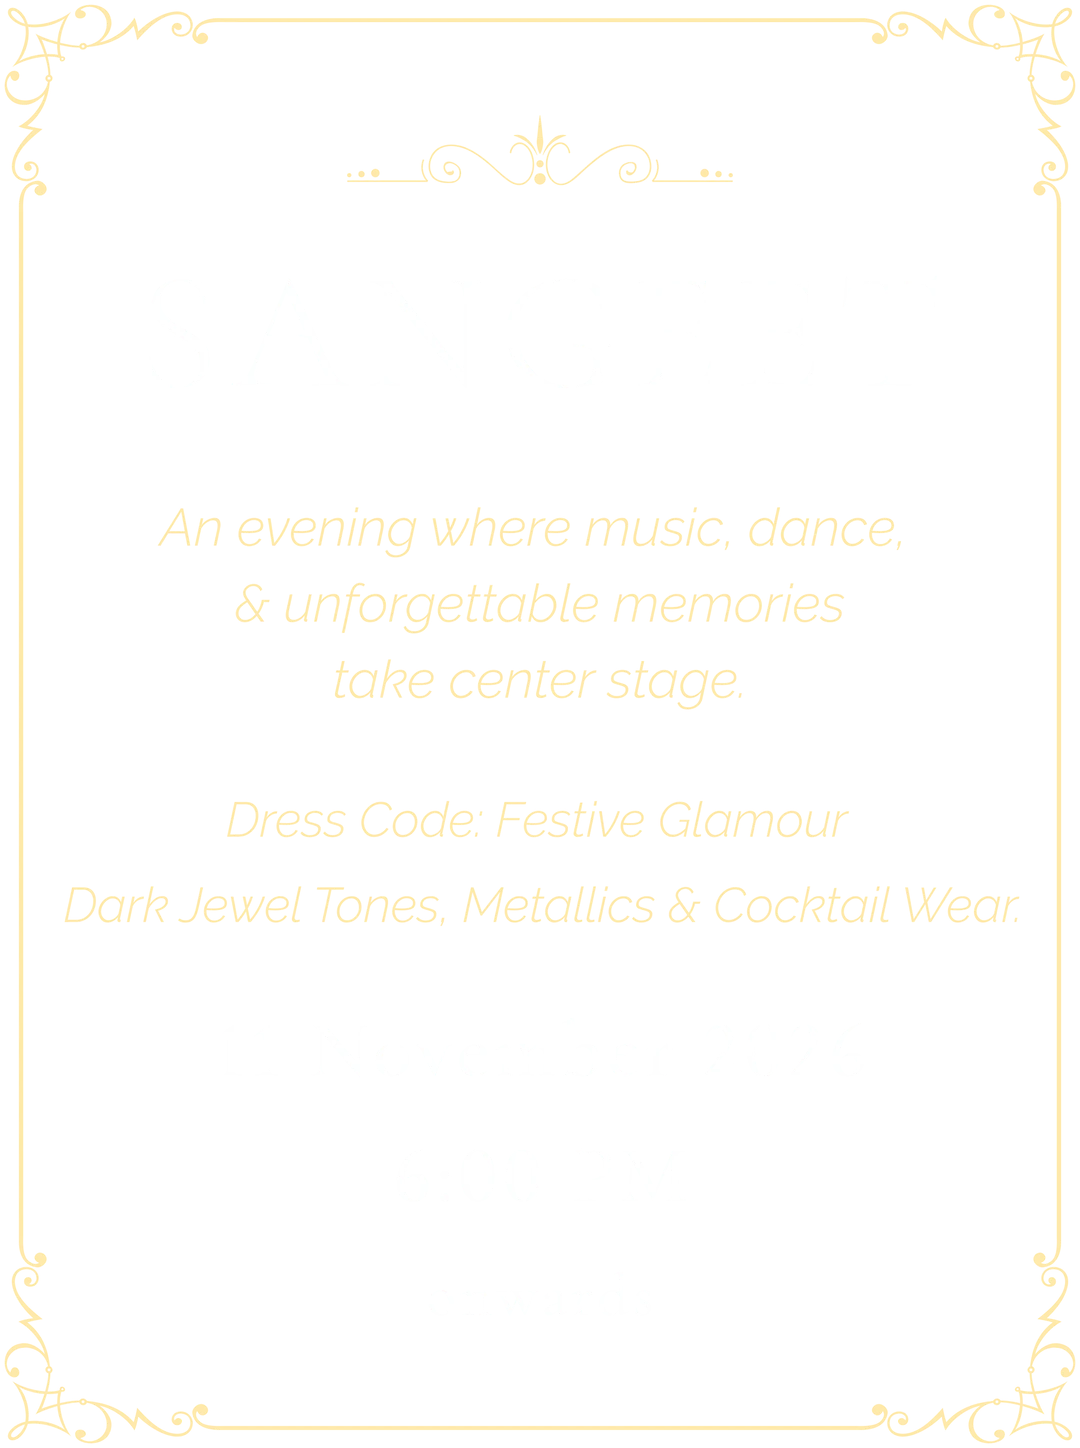
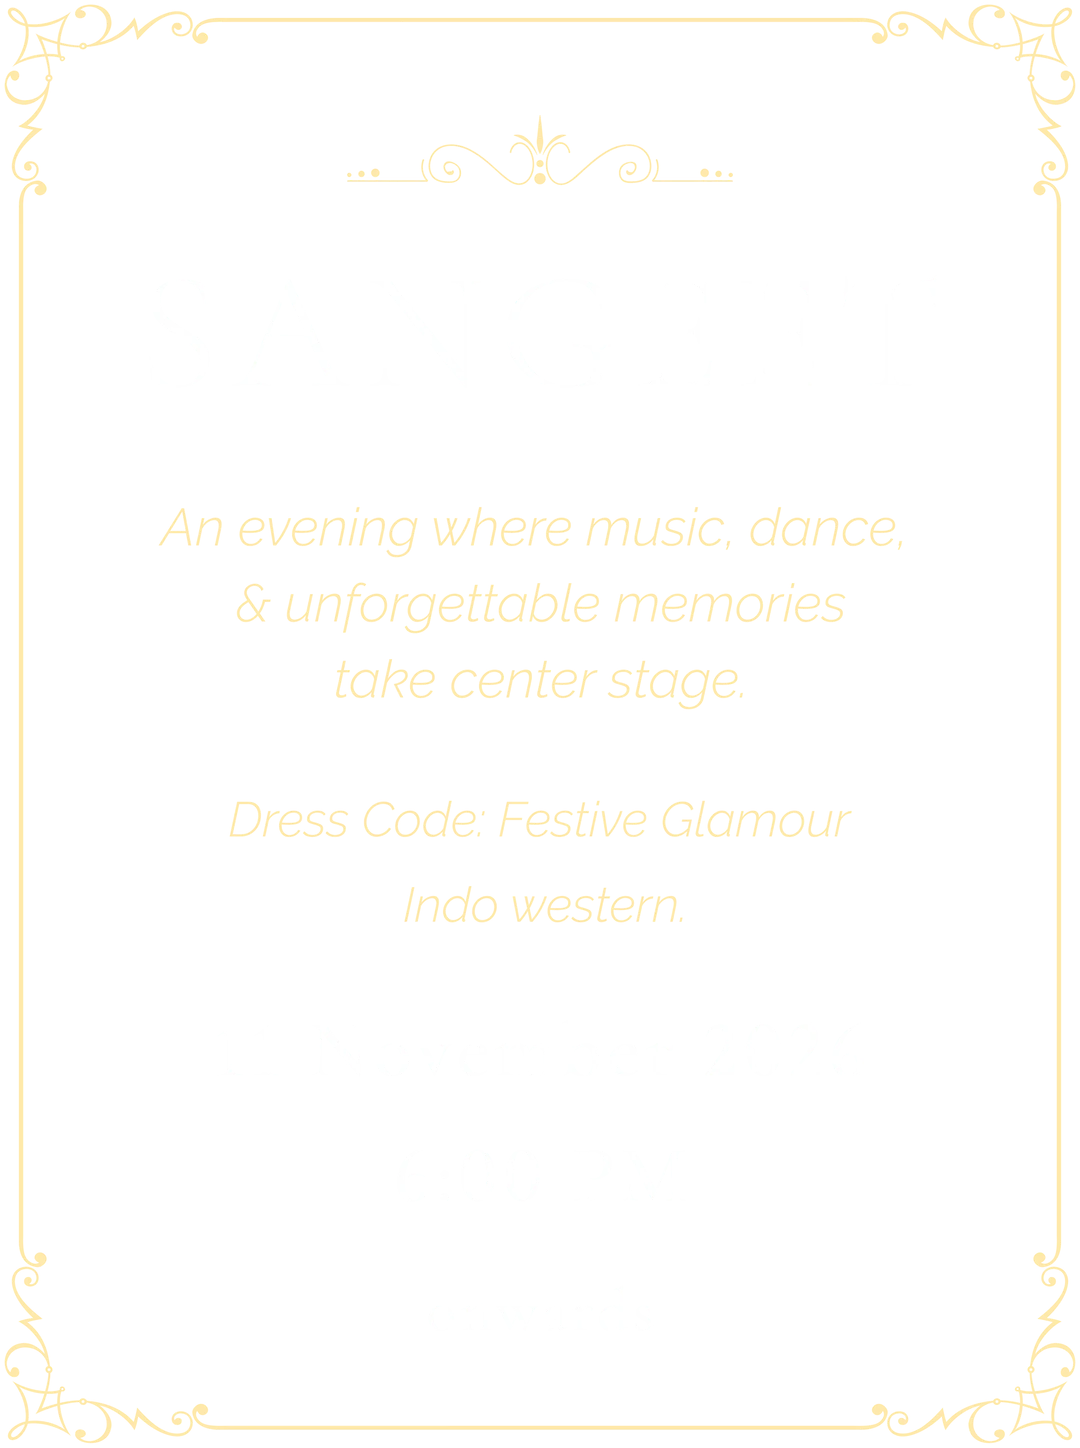
feat: new envelope flap, gallery cleanup, Sangeet content update, snappier event reveals
- Envelope flap replaced with the Open_2ndFrame artwork
- Gallery: header is now just 'Moments' in large type, captions removed,
  'Hand in hand' photo dropped
- Sangeet card updated from the Wedding celebrations folder (dress code
  now 'Festive Glamour — Indo western'), re-extracted with full border
- Event cards reveal immediately as each scene pins, shorter pins

diff --git a/components/PhotoSlider.tsx b/components/PhotoSlider.tsx
@@ -2,6 +2,7 @@
 
 import Reveal from "@/components/Reveal";
 
+// caption is used only as the image alt text — no visible overlay
 type Slide = { caption: string; src: string };
 
 const SLIDES: Slide[] = [
@@ -11,7 +12,6 @@ const SLIDES: Slide[] = [
   { caption: "Our journey", src: "/alexa-richard-wedding/couple-4.webp" },
   { caption: "Engagement", src: "/alexa-richard-wedding/couple-5.webp" },
   { caption: "Forever", src: "/alexa-richard-wedding/couple-6.webp" },
-  { caption: "Hand in hand", src: "/alexa-richard-wedding/couple-7.webp" },
   { caption: "Always", src: "/alexa-richard-wedding/couple-8.webp" },
 ];
 
@@ -27,11 +27,8 @@ export default function PhotoSlider() {
       <div className="w-full max-w-5xl">
         {/* Header */}
         <Reveal y={18} duration={0.8} className="text-center mb-12 px-4">
-          <span className="text-xs uppercase tracking-[0.28em] text-[#e3c984] font-semibold">
+          <h2 className="font-display italic text-5xl md:text-6xl text-white/90">
             Moments
-          </span>
-          <h2 className="font-display italic text-4xl md:text-5xl text-white/90 mt-2">
-            Our Story in Pictures
           </h2>
           <div className="ornament-divider mt-5 mx-auto max-w-xs text-[#e3c984]">
             <span className="text-lg">❀</span>
@@ -60,10 +57,6 @@ export default function PhotoSlider() {
                   draggable={false}
                   className="absolute inset-0 w-full h-full object-cover select-none"
                 />
-                {/* Caption over a bottom scrim */}
-                <figcaption className="absolute inset-x-0 bottom-0 pt-10 pb-4 px-4 text-center bg-gradient-to-t from-black/60 via-black/25 to-transparent select-none">
-                  <span className="font-display italic text-lg text-white/90 drop-shadow-sm">{slide.caption}</span>
-                </figcaption>
                 {/* Sheen sweep on hover */}
                 <div className="absolute inset-0 -translate-x-full group-hover/tile:translate-x-full transition-transform duration-[1100ms] ease-out bg-gradient-to-r from-transparent via-white/25 to-transparent" />
                 {/* Inset frame */}

diff --git a/components/EventsSection.tsx b/components/EventsSection.tsx
@@ -26,7 +26,7 @@ const EVENTS = [
   {
     key: "sangeet",
     src: "/alexa-richard-wedding/event-sangeet.webp",
-    alt: "Sangeet — an evening where music, dance, & unforgettable memories take center stage. Dress code: festive glamour — dark jewel tones, metallics & cocktail wear. 11 November 2026, 6:00 PM onwards",
+    alt: "Sangeet — an evening where music, dance, & unforgettable memories take center stage. Dress code: festive glamour — Indo western. 11 November 2026, 6:00 PM onwards",
   },
   {
     key: "wedding",
@@ -60,7 +60,7 @@ export default function EventsSection() {
           scrollTrigger: {
             trigger: scene,
             start: "top top",
-            end: "+=90%",
+            end: "+=70%",
             scrub: 0.5,
             pin: true,
             anticipatePin: 1,
@@ -74,10 +74,11 @@ export default function EventsSection() {
           { scale: 1.06 + i * 0.06, ease: "none", duration: 1 },
           0
         ).fromTo(
+          // Card reveals right as its scene takes over — no dead scroll
           scene.querySelector(".ev-card"),
           { opacity: 0, y: 40 },
-          { opacity: 1, y: 0, ease: "power1.out", duration: 0.35 },
-          0.05
+          { opacity: 1, y: 0, ease: "power1.out", duration: 0.25 },
+          0
         );
       });
     },
